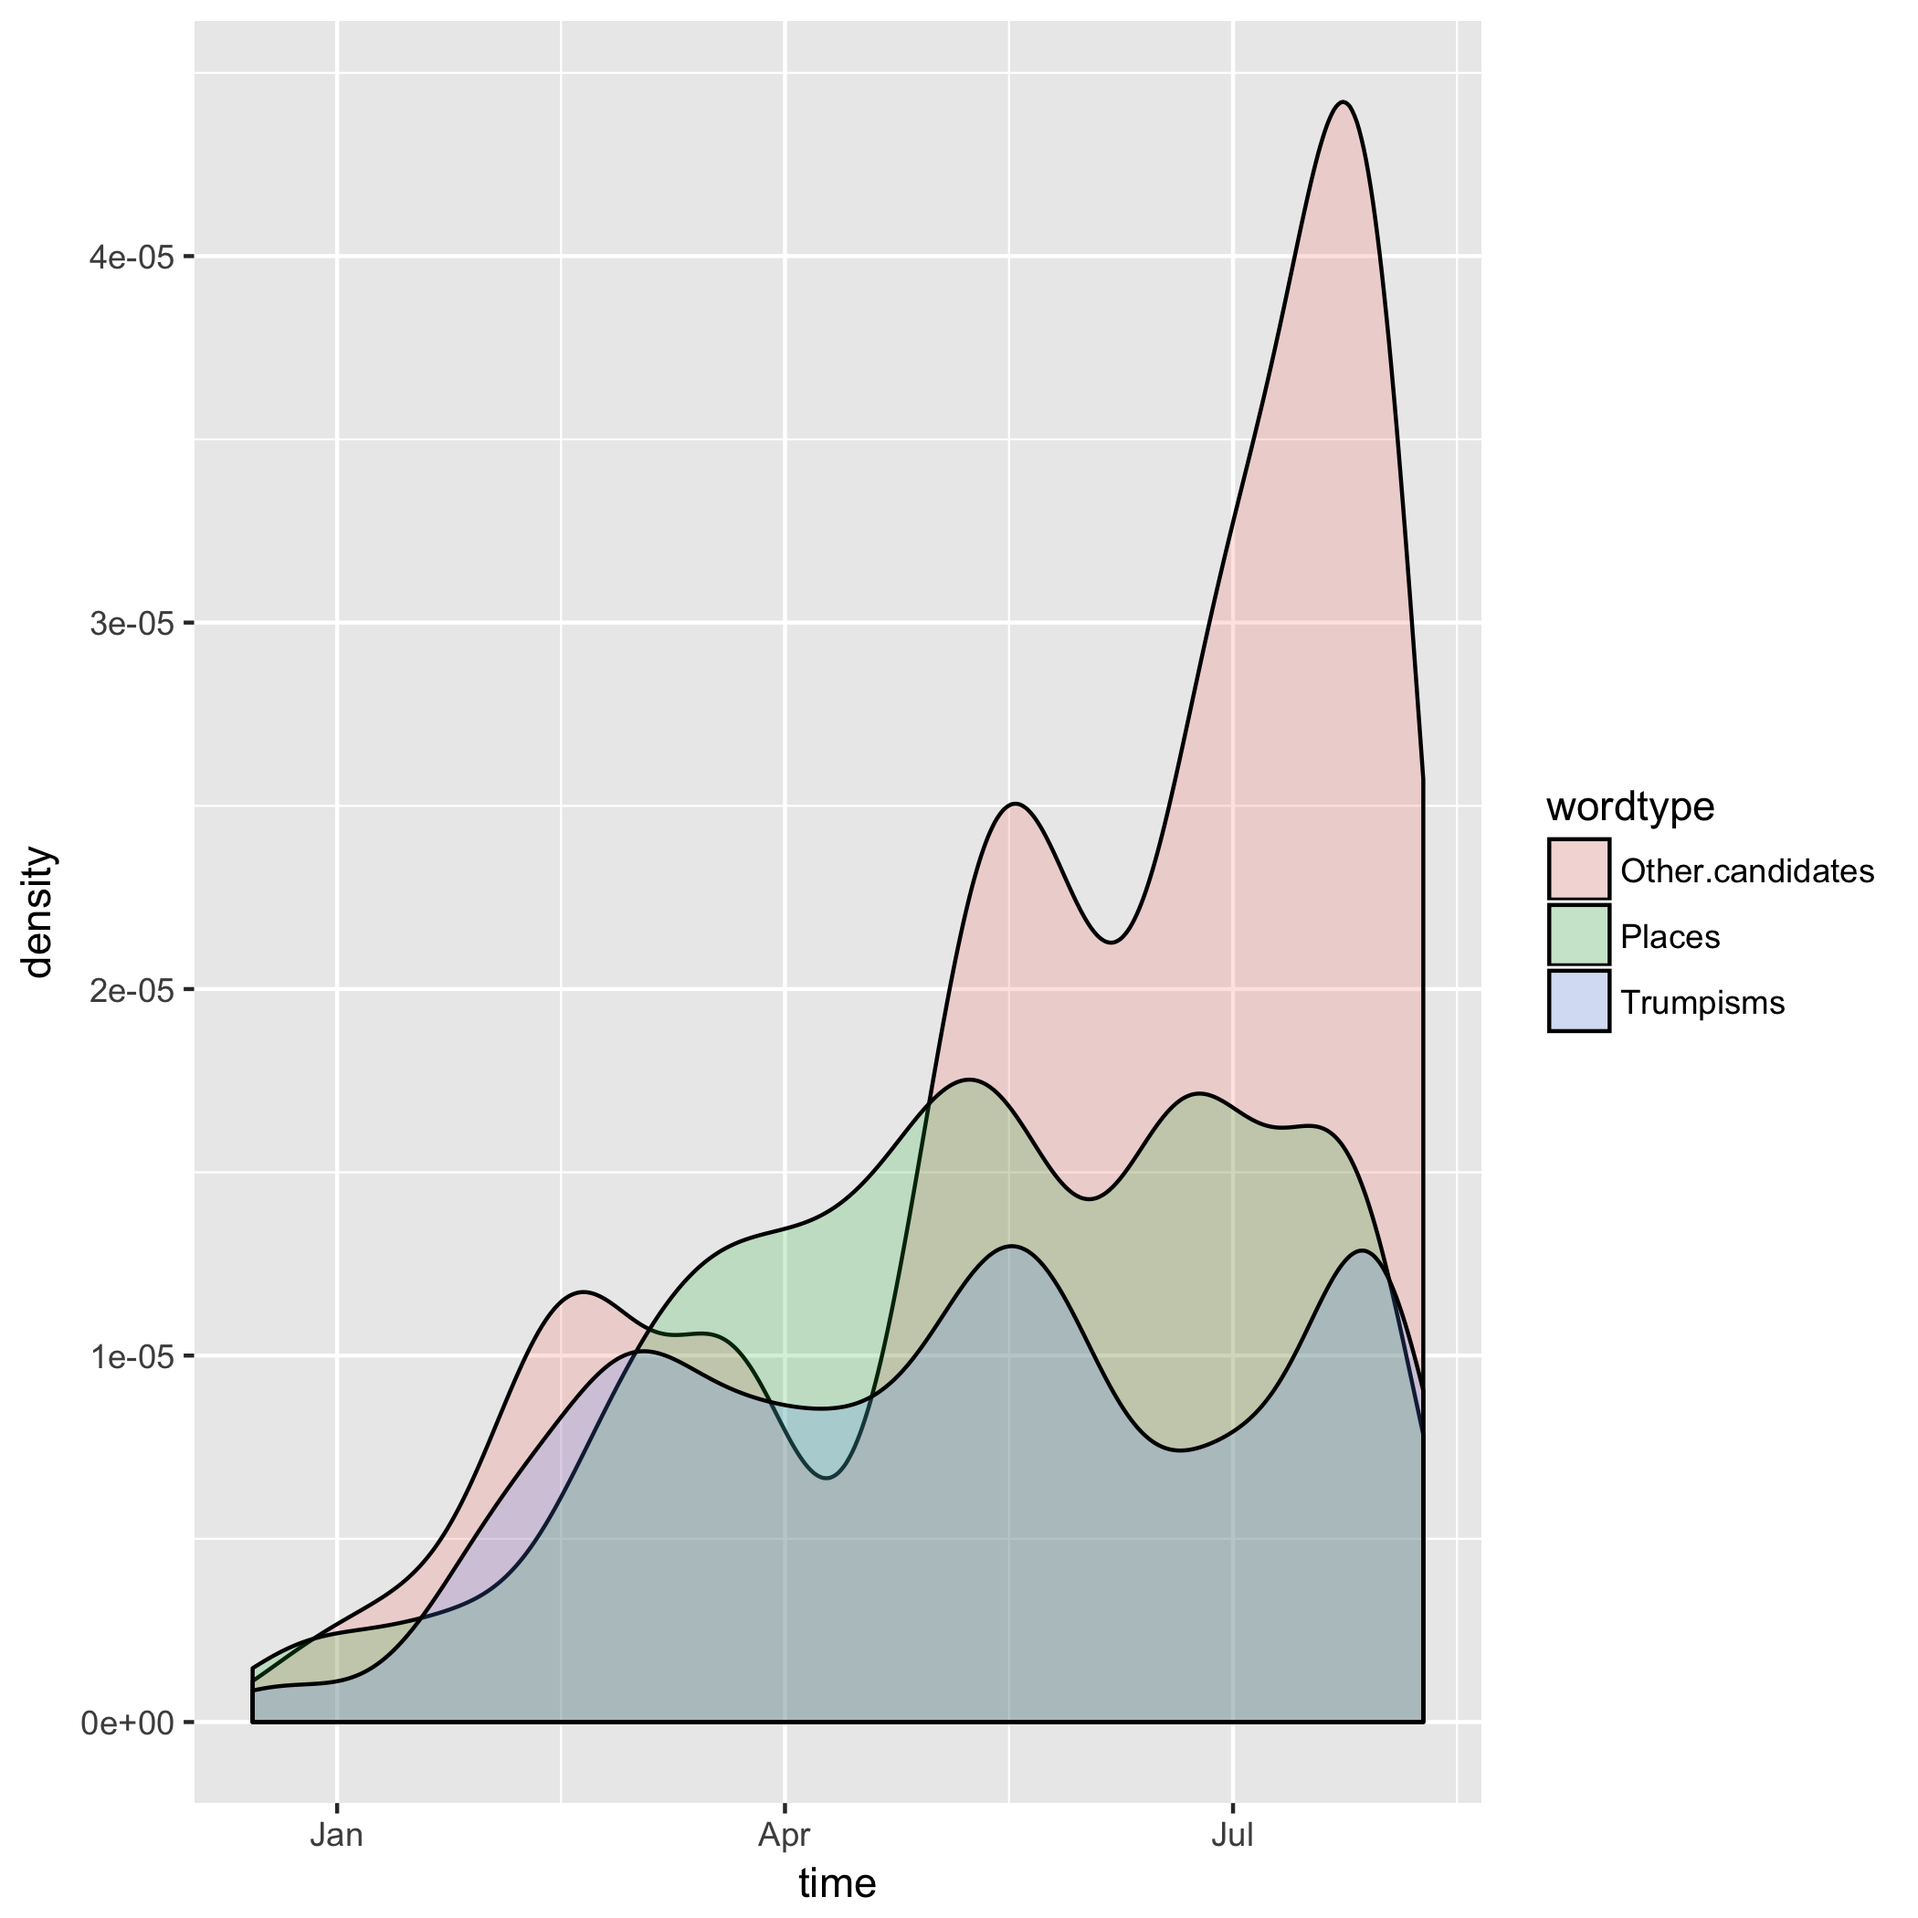
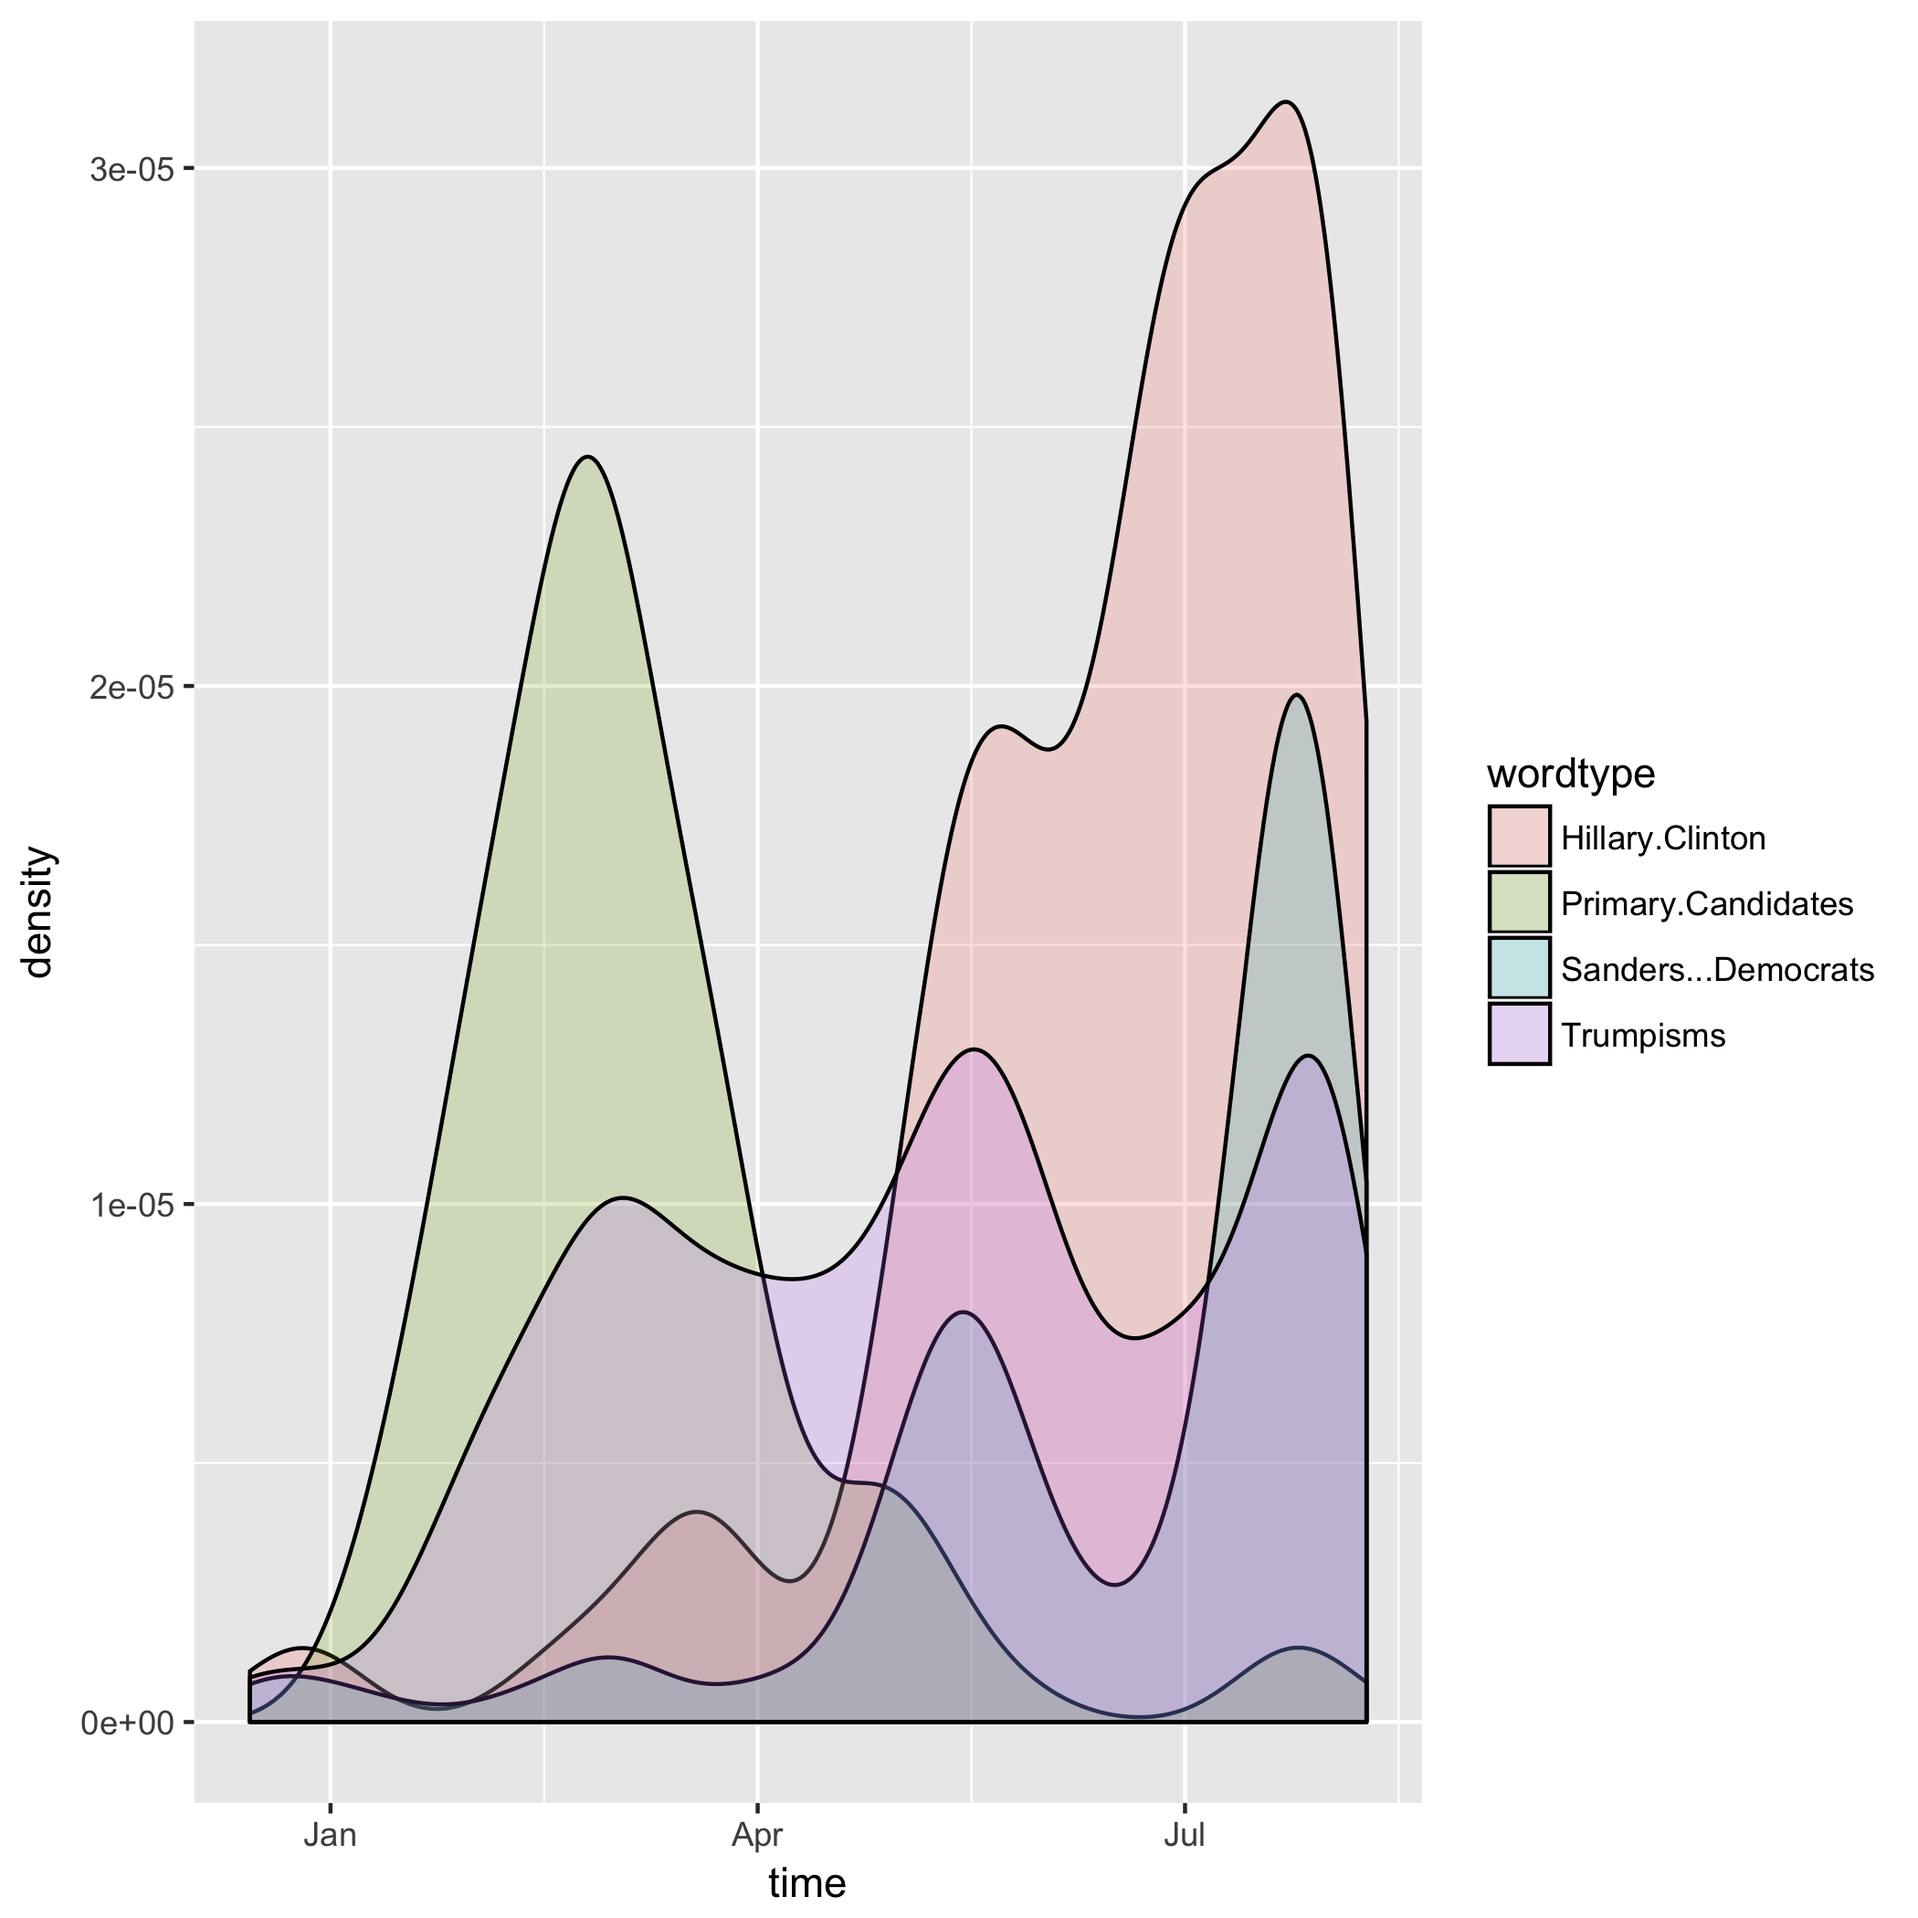
Added more words

diff --git a/hw07/Summary.md b/hw07/Summary.md
@@ -16,15 +16,16 @@ knitr::kable(Words)
 
 
 
-|wordtype         |Words                                                                                                               |
-|:----------------|:-------------------------------------------------------------------------------------------------------------------|
-|Trumpisms        |huge&#124;wall&#124;crooked&#124;best&#124;believe&#124;win&#124;lose&#124;great again&#124;MAGA&#124;sad&#124;best |
-|Other candidates |Hillary&#124;Bernie&#124;Ted Cruz&#124;Ben Carson&#124;Bush                                                         |
-|Places           |China&#124;Mexico&#124;Canada&#124;America&#124;Europe                                                              |
+|wordtype            |Words                                                                                                               |
+|:-------------------|:-------------------------------------------------------------------------------------------------------------------|
+|Trumpisms           |huge&#124;wall&#124;crooked&#124;best&#124;believe&#124;win&#124;lose&#124;great again&#124;MAGA&#124;sad&#124;best |
+|Hillary Clinton     |Hillary                                                                                                             |
+|Primary Candidates  |Marco&#124;Cruz&#124;Carson&#124;Jeb                                                                                |
+|Sanders & Democrats |Bernie&#124;Dem                                                                                                     |
 
 and then plot his usage of them over time.
 
-Note that this entire assignment is easily scalable. All one needs to do is add another regular expression to the vector `Trumpisms` and add a name for it to the vector `wordtypes` in [01_dataframe.R](https://github.com/arsbar24/STAT545-hw-barton-alistair/blob/master/hw07/MakeFiles/01_dataframe.R) and the analysis will automatically include it next time you run it. To somewhat demonstrate this, I do my analysis on three sets of words when originally it was just two (as I did on my last assignment)
+Note that this entire assignment is easily scalable. All one needs to do is add another regular expression to the vector `Trumpisms` and add a name for it to the vector `wordtypes` in [01_dataframe.R](https://github.com/arsbar24/STAT545-hw-barton-alistair/blob/master/hw07/MakeFiles/01_dataframe.R) and the analysis will automatically include it next time you run it. To somewhat demonstrate this, I do my analysis on four sets of words when originally it was just two (as I did on my last assignment)
 
 We begin by downloading the data in [`00_download.R`](https://github.com/arsbar24/STAT545-hw-barton-alistair/blob/master/hw07/MakeFiles/00_download.R) (the [info](https://jennybc.github.io/purrr-tutorial/ls08_trump-tweets.html) for doing this was obtained from the previous assignment). 
 
@@ -67,7 +68,7 @@ The final product of this is the following plot:
 
 ![](SummaryFiles/tweet_freq.png)
 
-We can see Trump referred to his opponents about as frequently as he used his catchphrases at the beginning of his campaign, but that he referred to his fellow candidates more and more as the campaign drew on. I suspect the uptrend at the end of the data continues, but the smoothing function I use doesn't see any data after the end of the dataset so trends down. I was a bit surprised at his relative lack of his catchphrases, given how much they stick out.
+We can see how Trump's references to his competitors in the primaries peaks around Super Tuesday (March 4th) around the time Ben Carson withdrew. His change in focus from primaries to the election is also evident, and we can see how his references to Sanders and Clinton match. I suspect many of the uptrends at the end of the data continues, but the smoothing function I use doesn't see any data after the end of the dataset so trends down. I was a bit surprised at his relative lack of his catchphrases, given how much they stick out.
 
 Lastly, we can also see the total amount of counts of each variable from the `Occ.tsv` file I created:
 
@@ -78,11 +79,12 @@ knitr::kable(read.delim("SummaryFiles/Occ.tsv"))
 
 
 
-|wordtype         | occurences|
-|:----------------|----------:|
-|Other.candidates |        369|
-|Places           |        239|
-|Trumpisms        |        176|
+|wordtype            | occurences|
+|:-------------------|----------:|
+|Hillary.Clinton     |        248|
+|Primary.Candidates  |        146|
+|Sanders...Democrats |         97|
+|Trumpisms           |        176|
 
 
 
